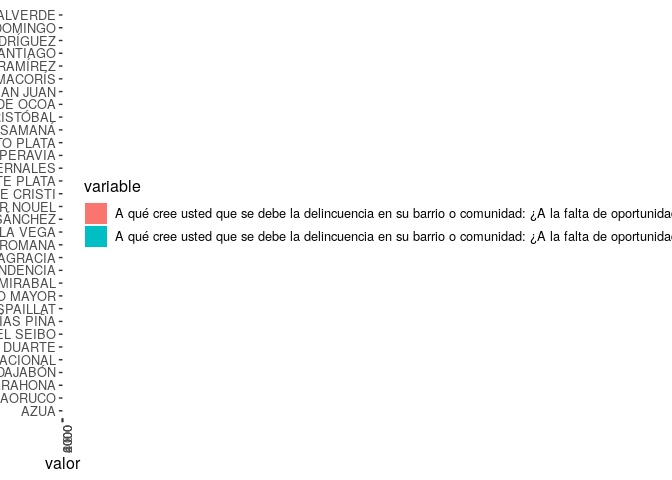
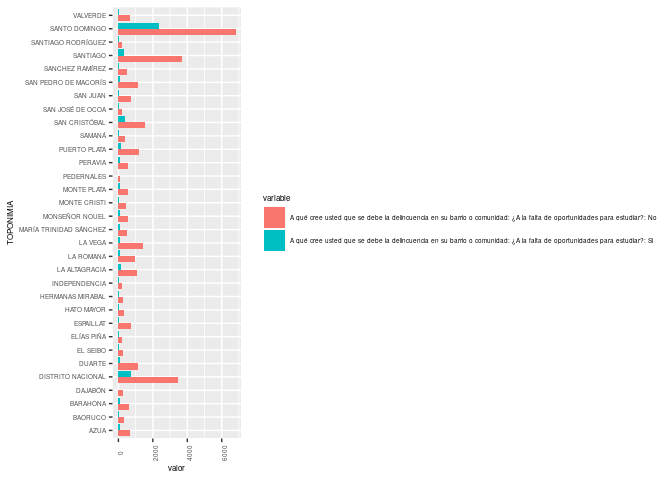
Actualizacion del trabajo anterior

diff --git a/README.md b/README.md
@@ -76,12 +76,12 @@ Paquetes
 library(sf)
 ## Linking to GEOS 3.7.1, GDAL 2.4.2, PROJ 5.2.0
 library(tidyverse)
-## ── Attaching packages ─────────────────────────────────────────────────────────────────────── tidyverse 1.2.1 ──
+## ── Attaching packages ─────────────────────────────────── tidyverse 1.2.1 ──
 ## ✔ ggplot2 3.2.1     ✔ purrr   0.3.3
 ## ✔ tibble  2.1.3     ✔ dplyr   0.8.3
 ## ✔ tidyr   1.0.0     ✔ stringr 1.4.0
 ## ✔ readr   1.3.1     ✔ forcats 0.4.0
-## ── Conflicts ────────────────────────────────────────────────────────────────────────── tidyverse_conflicts() ──
+## ── Conflicts ────────────────────────────────────── tidyverse_conflicts() ──
 ## ✖ dplyr::filter() masks stats::filter()
 ## ✖ dplyr::lag()    masks stats::lag()
 ```
@@ -2063,7 +2063,7 @@ proven17 %>%
   gather(variable, valor, -TOPONIMIA) %>%
   ggplot() + aes(x = TOPONIMIA, y = valor, fill = variable, group = variable) +
   geom_col(position = 'dodge') + scale_y_continuous() +
-  theme(axis.text.x = element_text(angle = 90), text = element_text(size = 12))  + coord_flip()
+  theme(axis.text.x = element_text(angle = 90), text = element_text(size = 6))  + coord_flip()
 ```
 
 <img src="img/unnamed-chunk-32-1.png" width="100%" />
@@ -2077,7 +2077,7 @@ proven17 %>%
   gather(variable, valor, -TOPONIMIA) %>%
   ggplot() + aes(x = TOPONIMIA, y = valor, fill = variable, group = variable) +
   geom_col(position = 'fill') + scale_y_continuous() +
-  theme(axis.text.x = element_text(angle = 90), text = element_text(size = 12))  + coord_flip()
+  theme(axis.text.x = element_text(angle = 90), text = element_text(size = 6))  + coord_flip()
 ```
 
 <img src="img/unnamed-chunk-32-2.png" width="100%" />
